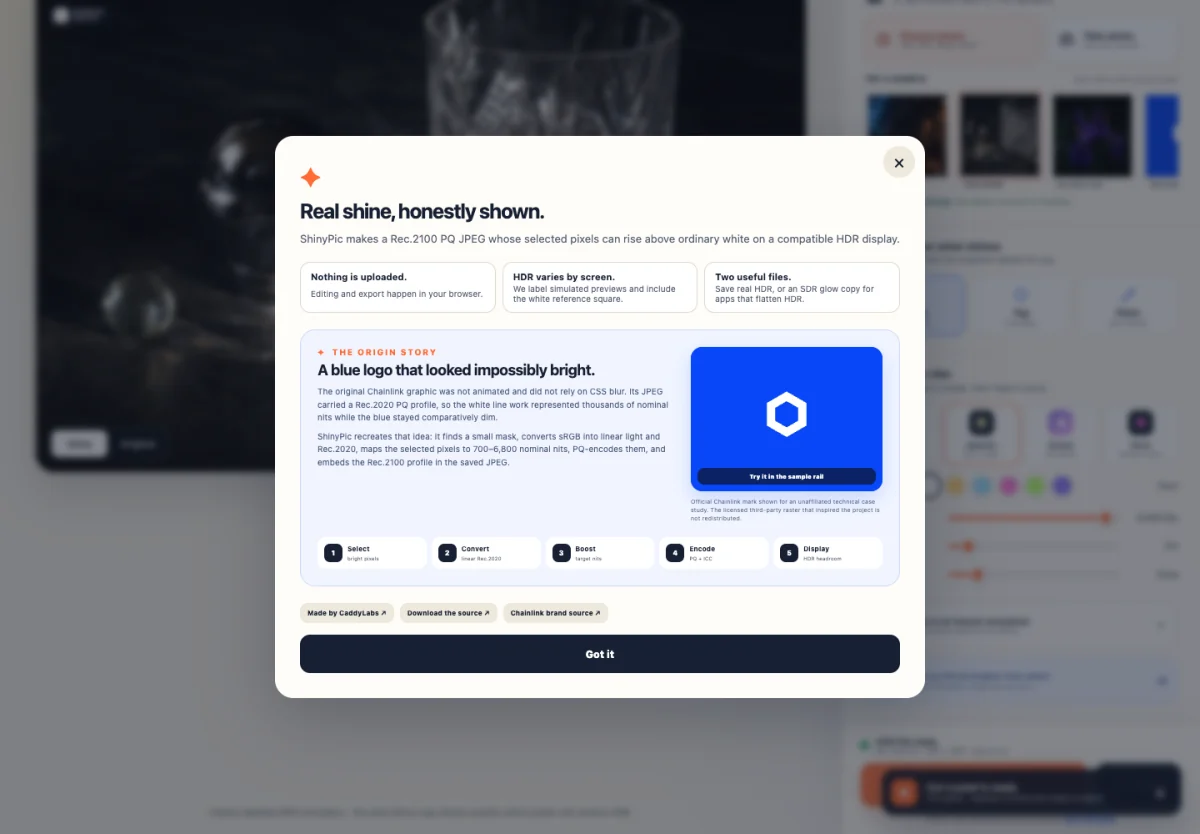
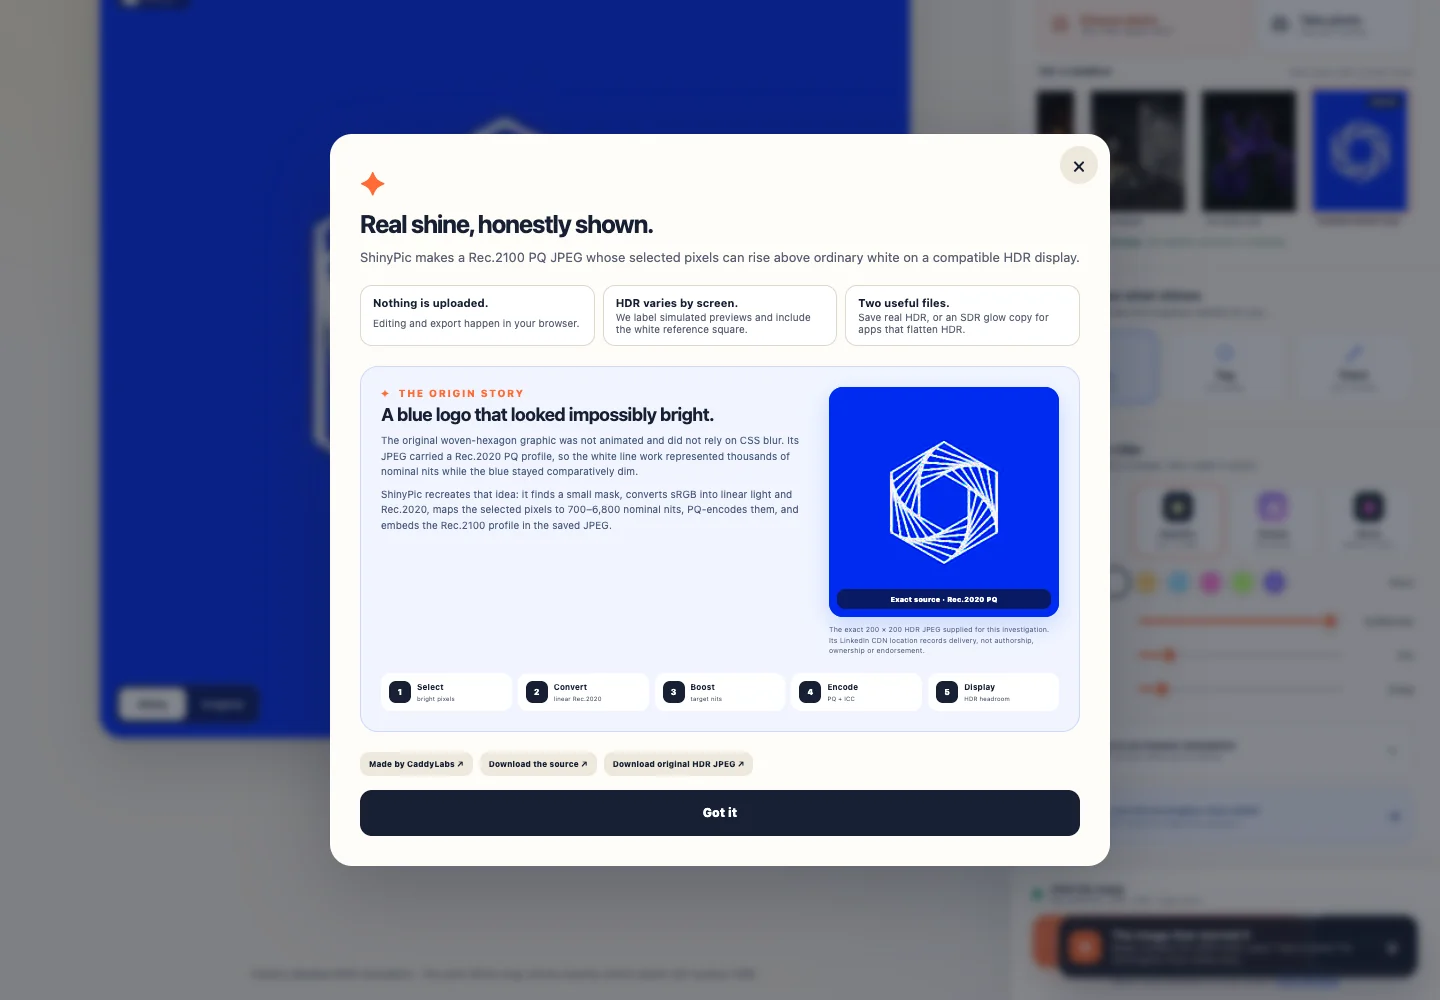
Use the original Rec.2020 PQ case-study image

diff --git a/index.html b/index.html
@@ -296,12 +296,12 @@
       <div class="origin-copy">
         <p class="eyebrow"><span aria-hidden="true">✦</span> The origin story</p>
         <h3 id="originTitle">A blue logo that looked impossibly bright.</h3>
-        <p>The original Chainlink graphic was not animated and did not rely on CSS blur. Its JPEG carried a Rec.2020 PQ profile, so the white line work represented thousands of nominal nits while the blue stayed comparatively dim.</p>
+        <p>The original woven-hexagon graphic was not animated and did not rely on CSS blur. Its JPEG carried a Rec.2020 PQ profile, so the white line work represented thousands of nominal nits while the blue stayed comparatively dim.</p>
         <p>ShinyPic recreates that idea: it finds a small mask, converts sRGB into linear light and Rec.2020, maps the selected pixels to 700–6,800 nominal nits, PQ-encodes them, and embeds the Rec.2100 profile in the saved JPEG.</p>
       </div>
       <figure class="origin-figure">
-        <div class="origin-image-wrap"><img id="chainlinkStoryImage" alt="Official white Chainlink symbol on a blue background"><span>Try it in the sample rail</span></div>
-        <figcaption>Official Chainlink mark shown for an unaffiliated technical case study. The licensed third-party raster that inspired the project is not redistributed.</figcaption>
+        <div class="origin-image-wrap"><img id="chainlinkStoryImage" alt="The exact HDR source image: a white woven hexagonal line graphic on blue"><span>Exact source · Rec.2020 PQ</span></div>
+        <figcaption>The exact 200 × 200 HDR JPEG supplied for this investigation. Its LinkedIn CDN location records delivery, not authorship, ownership or endorsement.</figcaption>
       </figure>
       <ol class="mini-pipeline" aria-label="HDR conversion steps">
         <li><span>1</span><strong>Select</strong><small>bright pixels</small></li>
@@ -314,7 +314,7 @@
     <div class="dialog-links">
       <a href="https://caddylabs.io/" target="_blank" rel="noreferrer">Made by CaddyLabs ↗</a>
       <a href="https://github.com/peterhanily/shinypic" target="_blank" rel="noreferrer">Download the source ↗</a>
-      <a href="https://chain.link/brand-assets" target="_blank" rel="noreferrer">Chainlink brand source ↗</a>
+      <a href="./assets/demos/chainlink-original-hdr.jpg" download>Download original HDR JPEG ↗</a>
     </div>
     <button class="dialog-primary" type="button" id="aboutDone">Got it</button>
   </dialog>

diff --git a/demo-catalog.js b/demo-catalog.js
@@ -46,11 +46,12 @@ export const DEMOS = Object.freeze([
   }),
   Object.freeze({
     id: "chainlink",
-    title: "The original idea",
-    short: "Chainlink study",
-    source: "./assets/demos/chainlink-case-study.svg",
-    fileName: "chainlink-case-study.svg",
-    alt: "The white Chainlink symbol centered on an official blue background",
+    title: "Original woven logo",
+    short: "HDR origin",
+    source: "./assets/demos/chainlink-case-study-sdr.jpg",
+    storySource: "./assets/demos/chainlink-original-hdr.jpg",
+    fileName: "chainlink-case-study-sdr.jpg",
+    alt: "A white woven hexagonal line graphic on a blue background",
     recipe: "sparkle",
     selection: "lights",
     amount: 0.98,
@@ -68,4 +69,8 @@ export function demoById(id) {
 
 export function resolvedDemoUrl(demo, embeddedAssets = globalThis.__SHINYPIC_ASSETS__ || {}) {
   return embeddedAssets.demoUrls?.[demo.id] || demo.source;
+}
+
+export function resolvedStoryUrl(demo, embeddedAssets = globalThis.__SHINYPIC_ASSETS__ || {}) {
+  return embeddedAssets.storyUrls?.[demo.id] || demo.storySource || resolvedDemoUrl(demo, embeddedAssets);
 }

diff --git a/styles.css b/styles.css
@@ -789,7 +789,7 @@ input[type="range"]::-moz-range-thumb { width: 13px; height: 13px; border: 3px s
 .origin-copy > p:not(.eyebrow) { margin: 7px 0 0; color: #4e5e7f; font-size: 10px; line-height: 1.55; }
 .origin-figure { margin: 0; }
 .origin-image-wrap { position: relative; overflow: hidden; border-radius: 14px; background: #0847f7; box-shadow: 0 8px 22px rgba(8,71,247,.18); }
-.origin-image-wrap img { width: 100%; aspect-ratio: 4 / 3; object-fit: cover; }
+.origin-image-wrap img { width: 100%; aspect-ratio: 1; object-fit: cover; dynamic-range-limit: no-limit; }
 .origin-image-wrap span { position: absolute; right: 8px; bottom: 8px; left: 8px; padding: 6px 8px; border-radius: 8px; background: rgba(11,20,45,.72); color: white; font-size: 7px; font-weight: 900; text-align: center; backdrop-filter: blur(6px); }
 .origin-figure figcaption { margin-top: 7px; color: #65728d; font-size: 7px; line-height: 1.45; }
 .mini-pipeline { grid-column: 1 / -1; display: grid; grid-template-columns: repeat(5, 1fr); gap: 6px; margin: 0; padding: 0; list-style: none; }

diff --git a/app.js b/app.js
@@ -9,7 +9,7 @@ import {
   smoothstep,
   srgbToLinear,
 } from "./hdr-core.js";
-import { DEMOS, demoById, resolvedDemoUrl } from "./demo-catalog.js";
+import { DEMOS, demoById, resolvedDemoUrl, resolvedStoryUrl } from "./demo-catalog.js";
 import {
   ImageGuardError,
   validateImageDimensions,
@@ -226,7 +226,9 @@ function renderDemoRail() {
   elements.demoRail.replaceChildren(fragment);
 
   const chainlinkDemo = demoById("chainlink");
-  if (chainlinkDemo) elements.chainlinkStoryImage.src = resolvedDemoUrl(chainlinkDemo, EMBEDDED_ASSETS);
+  if (chainlinkDemo) {
+    elements.chainlinkStoryImage.src = resolvedStoryUrl(chainlinkDemo, EMBEDDED_ASSETS);
+  }
   updateDemoButtons();
 }
 

diff --git a/sw.js b/sw.js
@@ -1,4 +1,4 @@
-const CACHE_NAME = "shinypic-shell-v5";
+const CACHE_NAME = "shinypic-shell-v6";
 const APP_SHELL = [
   "./",
   "./index.html",
@@ -15,7 +15,8 @@ const APP_SHELL = [
   "./assets/demos/neon-rain.jpg",
   "./assets/demos/crystal-light.jpg",
   "./assets/demos/iris-after-rain.jpg",
-  "./assets/demos/chainlink-case-study.svg",
+  "./assets/demos/chainlink-case-study-sdr.jpg",
+  "./assets/demos/chainlink-original-hdr.jpg",
   "./assets/rec2100-pq.icc",
 ];
 

diff --git a/README.md b/README.md
@@ -90,29 +90,30 @@ JPEG.
 
 ![The ShinyPic origin-story dialog explaining the Chainlink case study](docs/images/origin-story.webp)
 
-The first image investigated for this project was a blue Chainlink graphic with
-white line work that appeared unusually bright. Container inspection showed an
-8-bit JPEG with a Rec.2020 PQ profile: the line pixels represented thousands of
-nominal nits, while the blue background stayed much lower. macOS could therefore
-place the lines above normal interface white in available HDR headroom.
+The exact image is a 200 × 200 progressive, 8-bit JPEG supplied from a LinkedIn
+media CDN URL whose path labels it `chainlink_labs_logo`. The delivery URL does
+not establish the artwork's author, owner, official status or license. Technical
+inspection found a 6,604-byte Adobe `Rec. 2020 PQ` ICC profile and no EXIF, XMP,
+animation or gain map. The white woven line work reaches the extreme end of the
+PQ signal while the blue background stays much lower, allowing an HDR-aware
+macOS display path to place the lines above normal interface white.
 
-The original raster came from Creative Fabrica and its license does not allow it
-to be embedded in an application or redistributed in a public repository, so it
-is intentionally absent. The in-app case study uses the unmodified official
-Chainlink symbol and official blue, links to the [Chainlink brand
-guidance](https://chain.link/brand-assets), and states that ShinyPic/CaddyLabs is
-not affiliated with Chainlink. The details and asset boundary are recorded in
-[`assets/demos/LICENSES.md`](assets/demos/LICENSES.md).
+The original HDR raster is now included verbatim and hash-pinned. The sample
+rail uses a colour-managed sRGB conversion of the same pixels so ShinyPic can
+demonstrate rebuilding the effect instead of processing an already-HDR input.
+The source, conversion, rights boundary, and non-endorsement notice are
+recorded in [`assets/demos/LICENSES.md`](assets/demos/LICENSES.md).
 
-| Official SDR source | SDR glow fallback |
+| Exact Rec.2020 PQ source | ShinyPic SDR glow fallback |
 | --- | --- |
-| ![Official white Chainlink symbol on blue](assets/demos/chainlink-case-study.svg) | ![SDR glow rendering of the Chainlink case study](docs/examples/chainlink-sdr-glow.jpg) |
+| ![Exact HDR source with white woven line work on blue](assets/demos/chainlink-original-hdr.jpg) | ![SDR glow rendering of the same case study](docs/examples/chainlink-sdr-glow.jpg) |
 
-**[Download the actual Rec.2100 PQ HDR case-study JPEG](docs/examples/chainlink-shiny-hdr.jpg)**
+**[Download the exact original Rec.2020 PQ JPEG](assets/demos/chainlink-original-hdr.jpg)**
 to test the physically brighter version on a compatible display. GitHub image
 previews may tone-map or flatten HDR, so download the file rather than judging
-its inline thumbnail. Independent verification reports `Rec. ITU-R BT.2100 PQ`.
-The exact hashes and expected profiles are in
+its inline thumbnail. The exact source has SHA-256
[1 lines of base64/hex data omitted]
+The source and generated-replica hashes and expected profiles are in
 [`docs/examples/README.md`](docs/examples/README.md).
 
 ## Mobile is a first-class layout

diff --git a/docs/examples/README.md b/docs/examples/README.md
@@ -1,19 +1,23 @@
-# Verified Chainlink case-study exports
+# Verified woven-logo HDR case study
 
-These files were generated by the committed standalone ShinyPic build from
-`assets/demos/chainlink-case-study.svg` using the sample's Sparkle recipe.
+The exact source and its ShinyPic reproduction are kept separate so the test is
+honest: the editor starts from a colour-managed SDR conversion, not from an
+image that already contains HDR values.
 
-| File | Profile reported by macOS `sips` | SHA-256 |
-| --- | --- | --- |
[2 lines of base64/hex data omitted]
+| File | Role | Profile reported by macOS `sips` | SHA-256 |
+| --- | --- | --- | --- |
[4 lines of base64/hex data omitted]
 
-Both are 1200 × 900 baseline 8-bit JPEGs. The HDR file carries the committed
-Rec.2100 PQ ICC profile; the SDR file is an intentionally visible glow fallback
-for ordinary screens. GitHub, messaging apps, and image pipelines may tone-map,
-flatten, or remove HDR, so download the HDR bytes before evaluating them.
+All four files are 200 × 200, 8-bit JPEGs. The supplied source is progressive;
+the two ShinyPic outputs are freshly rasterized baseline JPEGs. Raw channel
+codes in the supplied PQ source peak at `0.95294`; inverse ST 2084 decoding puts
+those peak channels in the several-thousand-nit nominal range. These are
+encoded values, not a measurement of any screen.
 
-The Chainlink symbol is shown only for the unaffiliated technical case study
-described in the root README. It is excluded from the MIT license; see
-`assets/demos/LICENSES.md` and the official
-[Chainlink brand guidance](https://chain.link/brand-assets).
+GitHub, messaging applications, and image pipelines may tone-map, flatten, or
+remove HDR, so download the exact bytes before judging the effect. The supplied
+artwork, its SDR conversion, and the derived examples are excluded from the MIT
+license; see [`assets/demos/LICENSES.md`](../../assets/demos/LICENSES.md).

diff --git a/assets/demos/LICENSES.md b/assets/demos/LICENSES.md
@@ -11,18 +11,25 @@ readable text. They are included under the repository's MIT license.
[2 lines of base64/hex data omitted]
 
-`chainlink-case-study.svg` uses the official Chainlink symbol, unmodified, on
-official Chainlink Blue (`#0847F7`). The mark is displayed only to explain the
-image that inspired this HDR experiment. Chainlink and its symbol are
-trademarks of their respective owner; they are not licensed under this
-repository's MIT license. ShinyPic and CaddyLabs are not affiliated with or
-endorsed by Chainlink. See the official [Chainlink brand assets and usage
-guidance](https://chain.link/brand-assets).
+`chainlink-original-hdr.jpg` is the exact 200 × 200 progressive JPEG supplied
+by the project maintainer for the technical investigation. It was retrieved on
+2026-08-03 from a LinkedIn media CDN URL whose path labels it
+`chainlink_labs_logo`, and has SHA-256
[1 lines of base64/hex data omitted]
+Independent inspection found a progressive 8-bit JPEG with a 6,604-byte Adobe
+`Rec. 2020 PQ` ICC profile and no EXIF, XMP, animation or gain-map payload. The
+CDN URL documents where the bytes were retrieved; it does not establish who
+created the artwork, who owns it, whether it is official, or what license
+applies. Its expiring signed query string is intentionally not preserved here.
 
-The derived example exports in `docs/examples/` inherit the same trademark
-boundary and are also excluded from the repository's MIT license.
+`chainlink-case-study-sdr.jpg` is a ColorSync conversion of that file to
+`sRGB IEC61966-2.1`. It gives the editor a normal-range source from which to
+rebuild the HDR effect instead of feeding an already-HDR image back into the
+conversion pipeline. Its SHA-256 is
[1 lines of base64/hex data omitted]
 
-The original third-party raster found during development is intentionally not
-included. It came from [Creative Fabrica product
-13436600](https://www.creativefabrica.com/product/cryptocurrency-chainlink-logo-5/),
-whose license does not permit embedding or redistribution in this project.
+These two files and the derived example exports in `docs/examples/` are
+included at the project maintainer's request solely as the technical reference
+that motivated ShinyPic. No ownership, endorsement or open-source license is
+asserted for the artwork. All rights remain with the applicable rights holder,
+and these images are excluded from the repository's MIT license.
